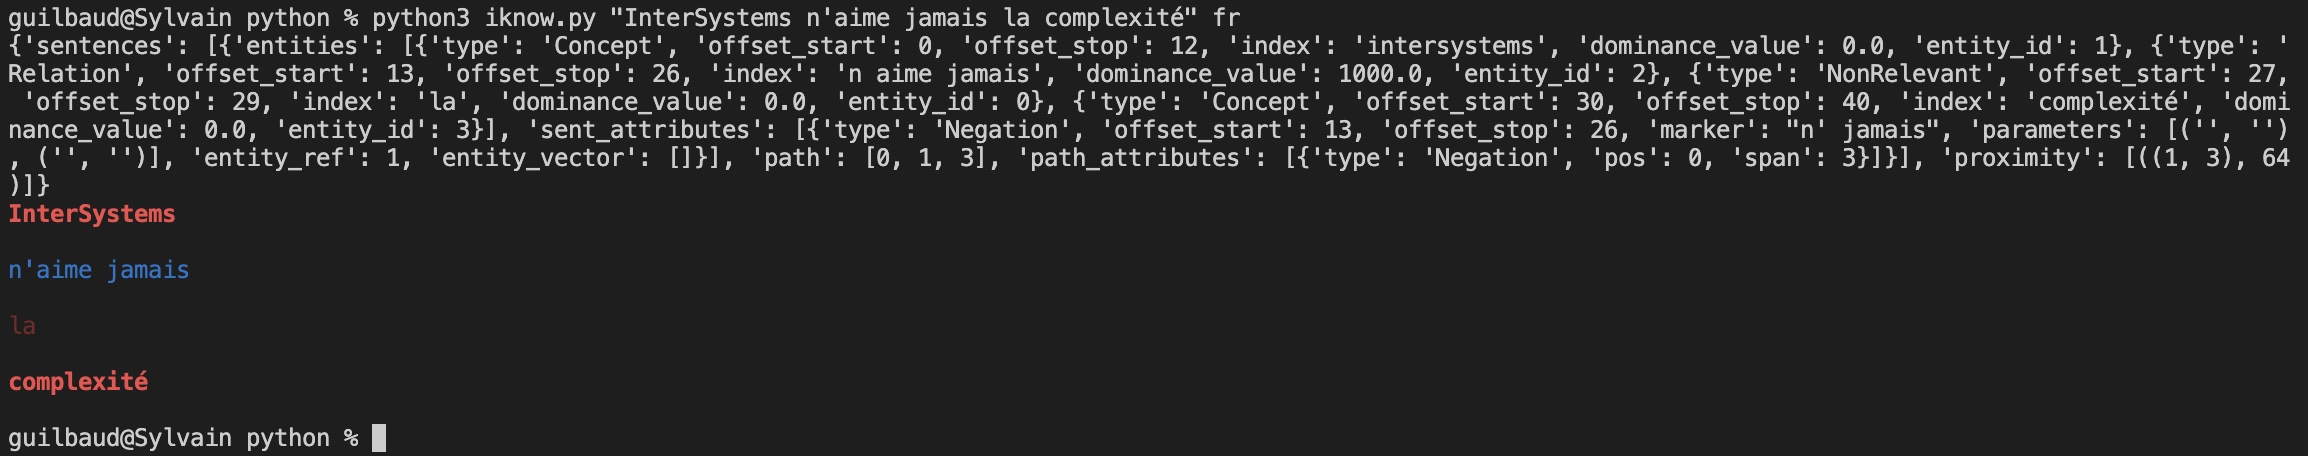
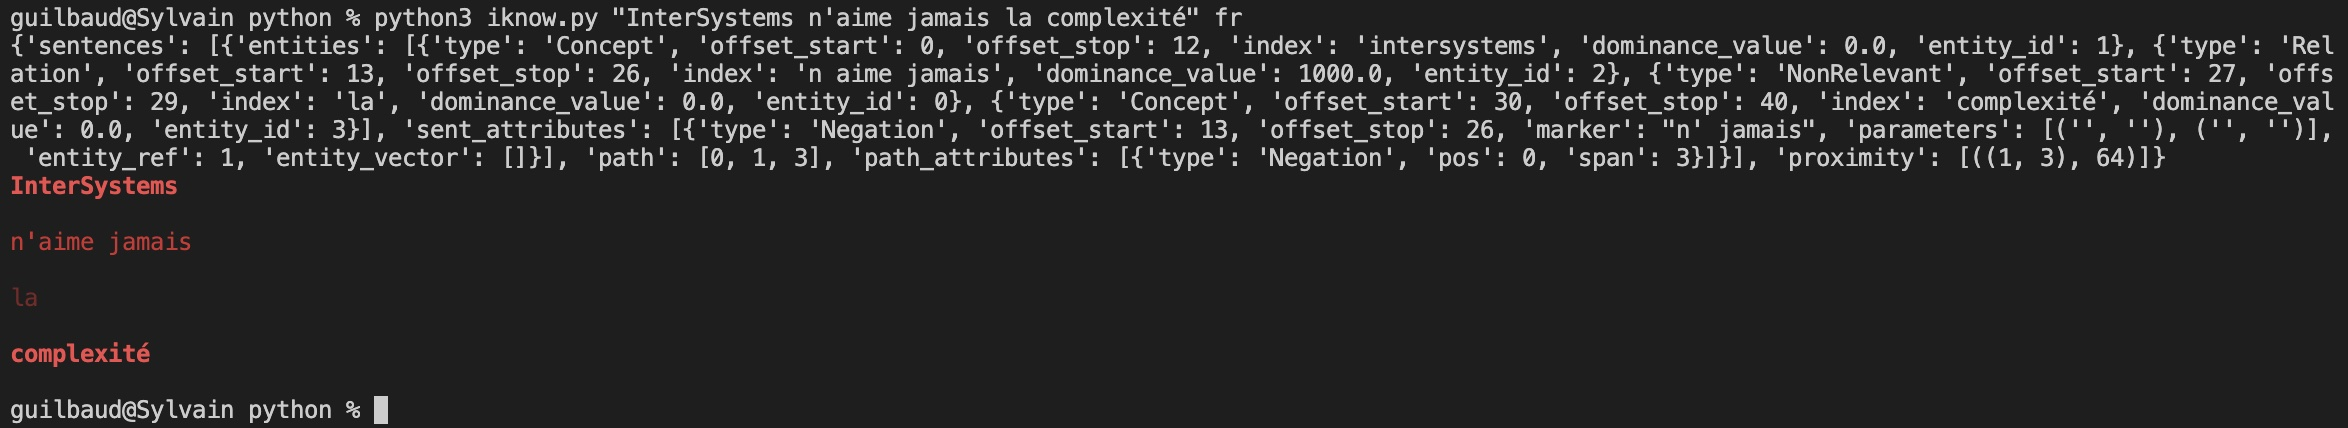
iknow

diff --git a/src/python/iknow.py b/src/python/iknow.py
@@ -41,17 +41,6 @@ def highlight(text, language="en", iknow=iknowpy.iKnowEngine()):
                 if pa['type']=="Certainty":
                     s['entities'][ent]['colour'] = Fore.CYAN
         
-      
-            # if sa['type']=="DateTime":
-                  
-                # for e in s['entities']:
-                #     if sa['entity_ref'] == e('entity_id'):
-                #         e['entities'][e]['colour'] = Back.WHITE
-            
-            # print('\n'+sa['type']+" : "+sa['marker'], end='\n') 
-                
-                # s['entities']['marker']['colour'] = Back.WHITE
-        
 
         for e in s['entities']:
             colour = Fore.GREEN
@@ -66,8 +55,11 @@ def highlight(text, language="en", iknow=iknowpy.iKnowEngine()):
                 style = Style.DIM
             
             for sa in s['sent_attributes']:
-                if e['offset_start'] == sa['offset_start']: 
+                if (e['offset_start'] == sa['offset_start']) and sa['type'] == 'DateTime': 
                     colour = Fore.BLUE
+                    style = Style.NORMAL
+                if (e['offset_start'] == sa['offset_start']) and sa['type'] == 'Negation':
+                    colour = Fore.RED
                     style = Style.NORMAL
             
             print(colour + style + text[e['offset_start']:e['offset_stop']], end='\n')
